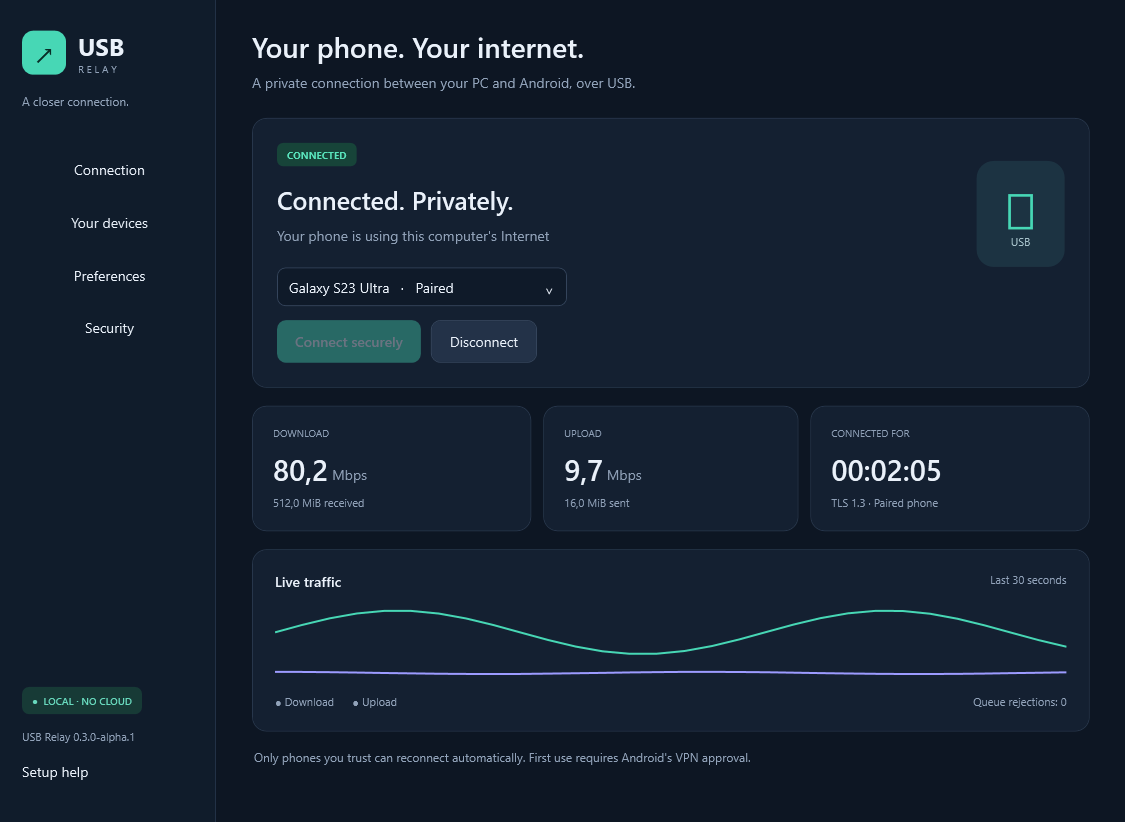
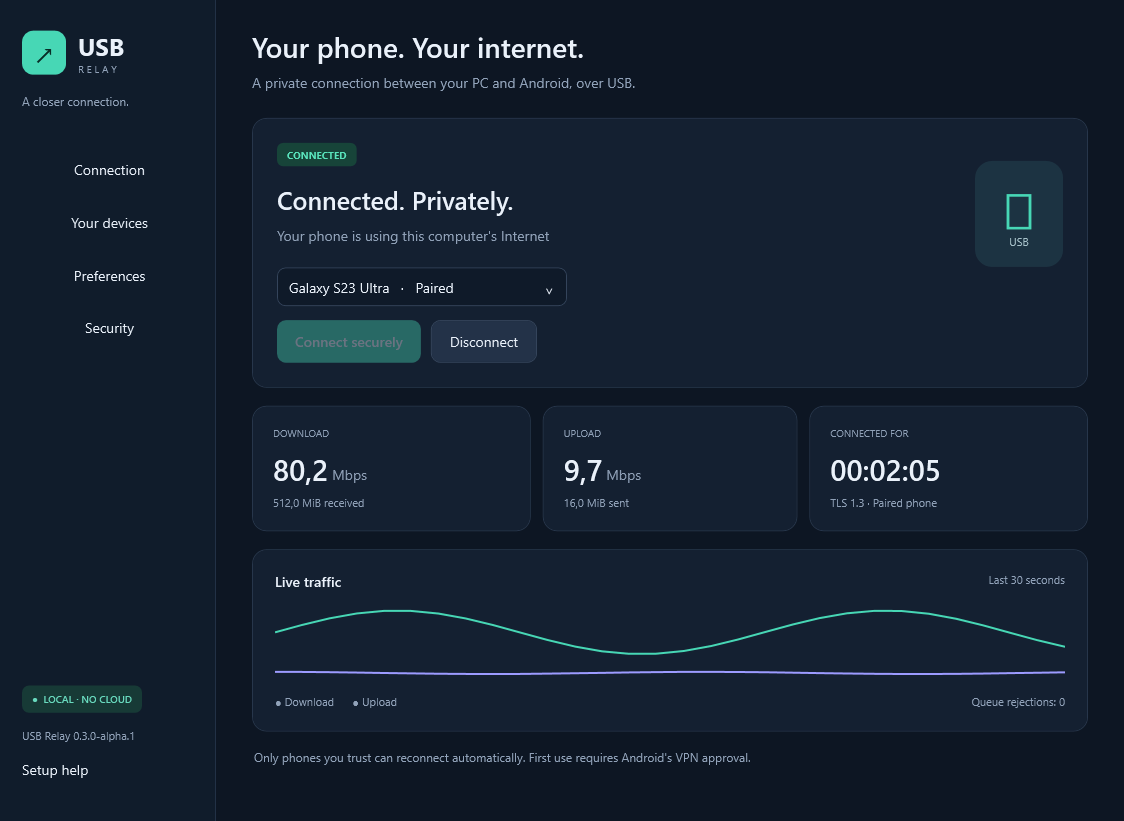
docs: preserve bundled runtime and installer license notices
Document self-contained runtime distribution, include upstream license texts, and refresh the synthetic desktop preview.

diff --git a/THIRD_PARTY_NOTICES.md b/THIRD_PARTY_NOTICES.md
@@ -1,13 +1,16 @@
 # Third-party notices
 
-The Windows relay embeds gVisor netstack, pinned in `go.mod` / `go.sum`. gVisor is licensed under Apache License 2.0. A copy is included at `third_party/gvisor-LICENSE`.
+USB Relay's own code is GPL-3.0-only. The following dependencies retain their own licenses and copyright notices; the project license does not erase them.
 
-- [gVisor](https://github.com/google/gvisor): Apache-2.0.
-- [google/btree](https://github.com/google/btree): Apache-2.0, indirect dependency.
-- [golang.org/x/sys](https://cs.opensource.google/go/x/sys): BSD-3-Clause, indirect dependency.
-- [golang.org/x/time](https://cs.opensource.google/go/x/time): BSD-3-Clause, indirect dependency.
-- [golang.org/x/exp](https://cs.opensource.google/go/x/exp): BSD-3-Clause, indirect dependency.
+- **gVisor netstack**: Apache-2.0, pinned in go.mod/go.sum. License and any upstream NOTICE are in third_party/. Source: https://github.com/google/gvisor.
+- **google/btree**: Apache-2.0. Source: https://github.com/google/btree.
+- **golang.org/x/sys, x/time, x/exp**: BSD-3-Clause. Their license texts are in third_party/.
+- **Go runtime and standard library**: BSD-style Go license, included as third_party/go-LICENSE.txt. Source: https://go.dev/LICENSE.
+- **Microsoft .NET runtime and Windows Desktop runtime**: unmodified runtime components distributed with the self-contained Windows package. Their runtime-pack LICENSE and THIRD-PARTY-NOTICES files are copied into that package's third_party/ folder. Sources: https://github.com/dotnet/runtime, https://github.com/dotnet/wpf and https://github.com/dotnet/winforms. Framework-dependent development builds use the separately installed runtime.
+- **Inno Setup**: used to build the Windows installer. The setup/uninstall components retain upstream attribution; the pinned license is included in third_party/inno-setup-LICENSE.txt. Source: https://github.com/jrsoftware/issrc/tree/is-7_1_1. The compiler itself is not bundled with the app.
 
-Gnirehtet is invoked externally only by the overflow test and is not bundled. Android SDK platform/build tools, Java, Python and ADB are external tools; Google platform tools are not redistributed. The Go runtime is compiled into the relay and its BSD license is included in binary packages.
+Google Android SDK/platform-tools, Android Studio and the JDK are external tools, not mirrored as project release assets. The optional setup download goes directly to Google after user consent and preserves the downloaded package's notices. An existing trusted adb.exe can be used instead. AOSP adb has its own open-source licensing, while the complete Google SDK download can carry additional terms; see docs/distribution-research.md.
 
-Public Windows packages include the .NET 10 runtime and Windows Desktop runtime (WPF/Windows Forms). Their runtime-pack licenses and third-party notices are copied into the binary package third_party directory. See modules.txt and BUILD-INFO.json for pinned dependency and runtime versions. The Go dependency sources are included in the corresponding-source release archive. No Google SDK binaries are bundled.
+Gnirehtet and Tetrd are not bundled. Historical diagnostics may invoke a separately installed gnirehtet executable; its engine is not part of the application.
+
+The corresponding-source release ZIP includes the tagged project and pinned Go dependency sources. Build instructions explain how to create modified clients with your own signing key. No maintainer private key is required or provided.

diff --git a/README.md b/README.md
@@ -4,6 +4,7 @@
 
 [Project website](https://enesoglu.github.io/android-usb-reverse-tethering/) · [Download the Windows app](https://github.com/enesoglu/android-usb-reverse-tethering/releases) · [Step-by-step installation](docs/INSTALLATION.md) · [Troubleshooting](docs/INSTALLATION.md#troubleshooting) · [Security](SECURITY.md) · [GPLv3 license](LICENSE)
 
+[![CI](https://github.com/enesoglu/android-usb-reverse-tethering/actions/workflows/ci.yml/badge.svg)](https://github.com/enesoglu/android-usb-reverse-tethering/actions/workflows/ci.yml)
 ![License: GPLv3](https://img.shields.io/badge/license-GPLv3-blue.svg)
 ![Windows x64](https://img.shields.io/badge/desktop-Windows%20x64-0078d4)
 ![Android 10+](https://img.shields.io/badge/phone-Android%2010%2B-3ddc84)
@@ -90,6 +91,8 @@ This feature comparison uses upstream documentation, checked on 2026-11-16. It i
 | Current caution | Public alpha; limited device testing | Upstream says not actively maintained | Commercial terms apply | Check upstream platform requirements |
 
 Sources: [Gnirehtet README](https://github.com/Genymobile/gnirehtet), [Tetrd developer listing](https://play.google.com/store/apps/details?id=com.robskie.tether&hl=en), [SimpleRT README](https://github.com/robinpaulson/SimpleRT). Android security approvals mean none should be advertised as permission-free one-click setup.
+
+If you are looking for a **gnirehtet GUI** or a **Tetrd alternative**, this is an independent early-stage project with its own implementation. The alpha performance limits below remain important.
 
 ## Requirements and current limits
 
